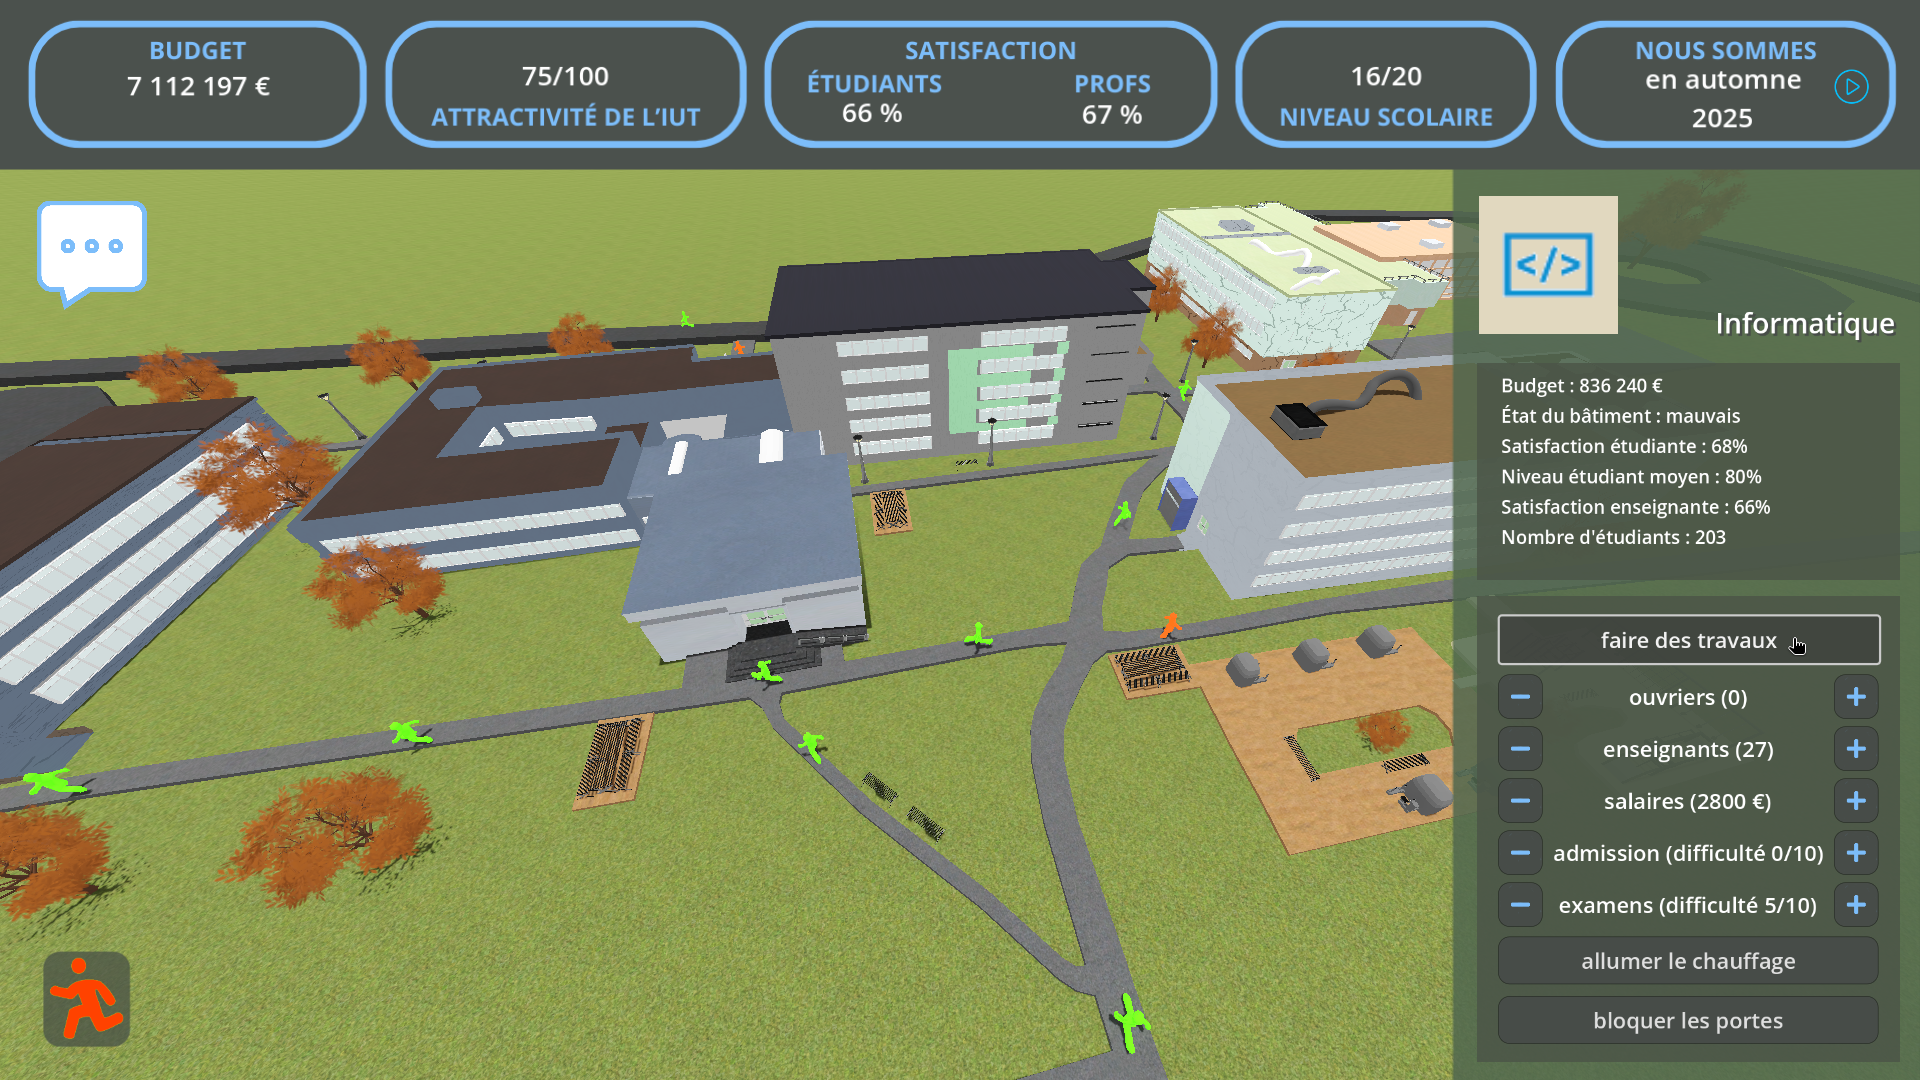
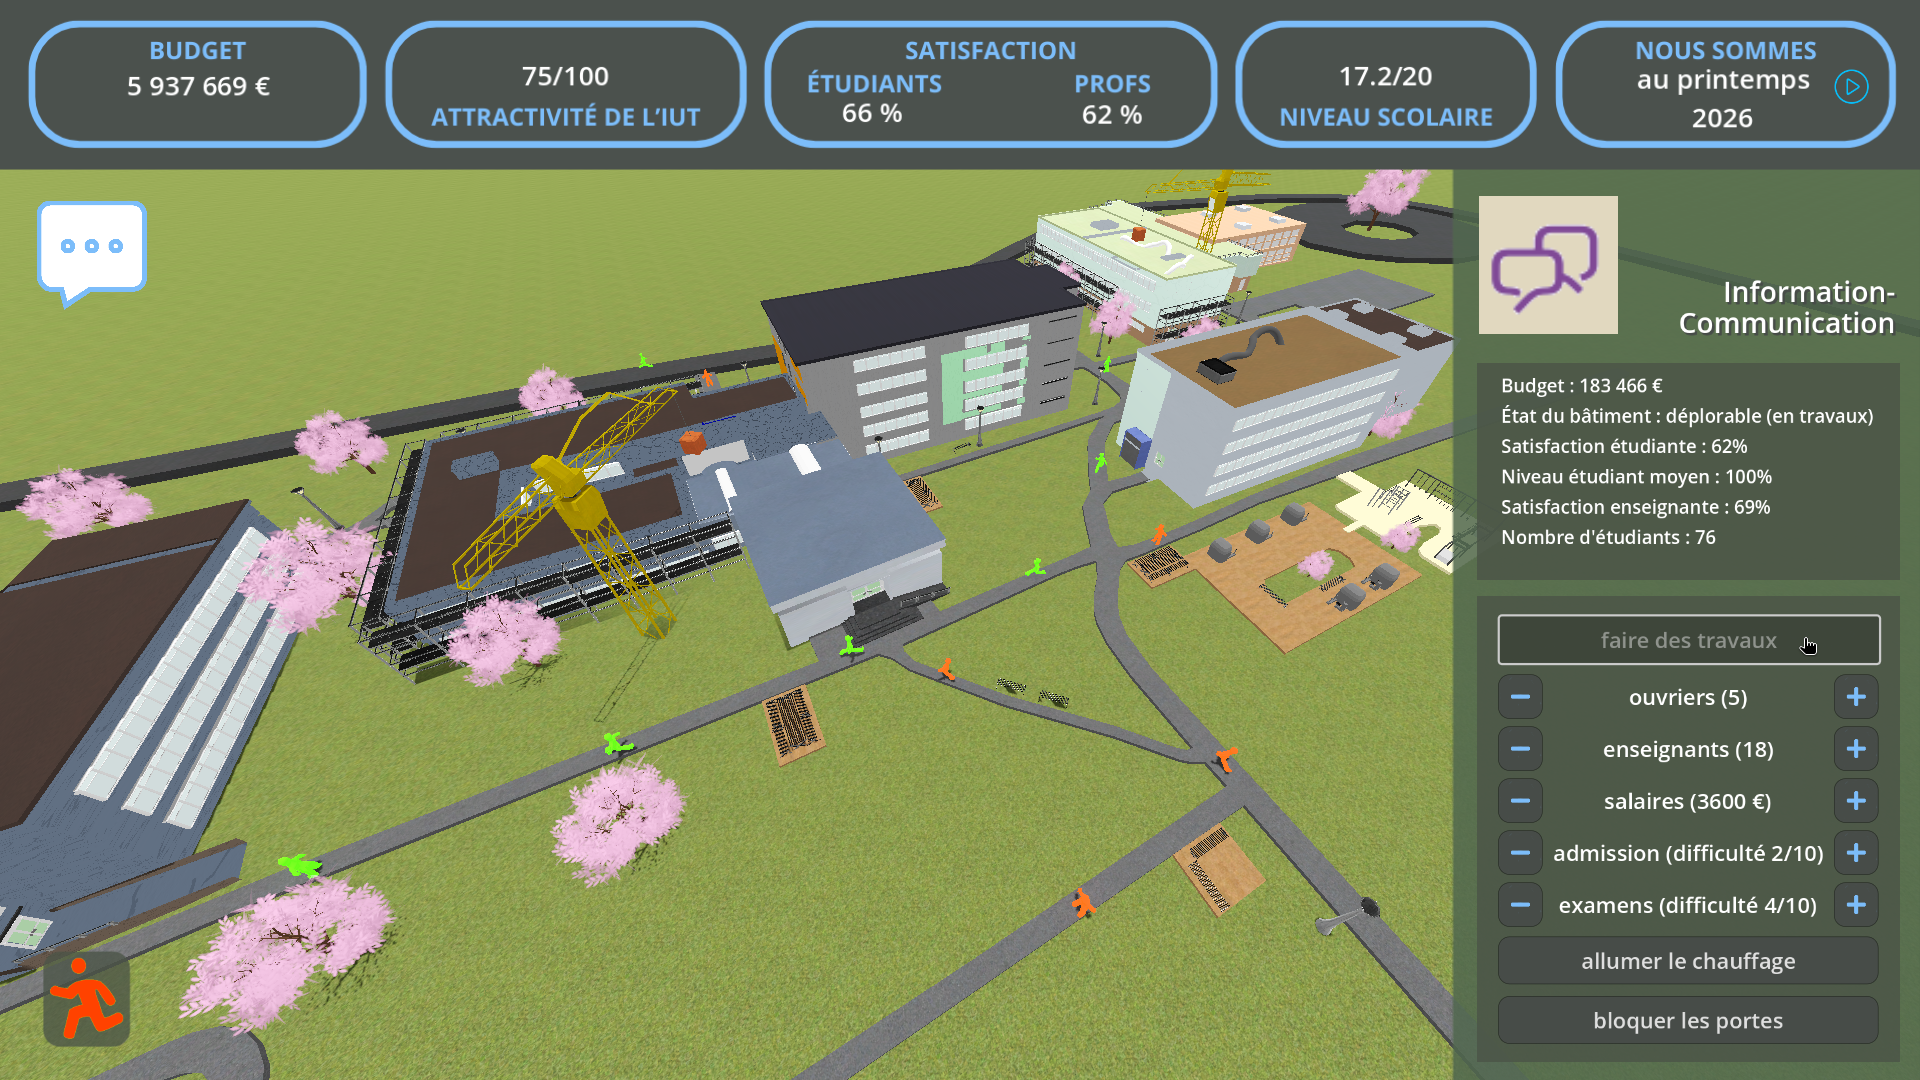
Screenshot : plutôt au printemps

diff --git a/README.md b/README.md
@@ -21,7 +21,7 @@ Toutes les images utilisées sont libres de droits :
 
 <p style="text-align: center;">![Campus](screenshots/main_screen.png)</p>
 
-<p style="text-align: center;"><small>Fig.2. Fenêtre principale</small></p>
+<p style="text-align: center;"><small>Fig.2. Fenêtre principale : le campus au printemps</small></p>
 
 <p style="text-align: center;">![Mission](visuels/captures/mission.png)
 ![Urgence](visuels/captures/urgent.png)
